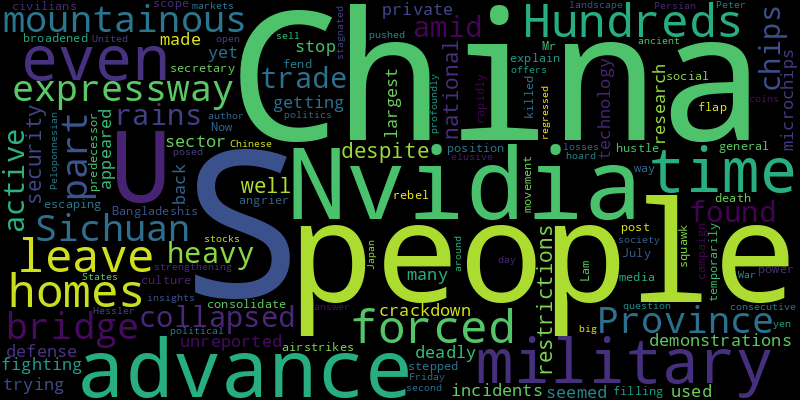
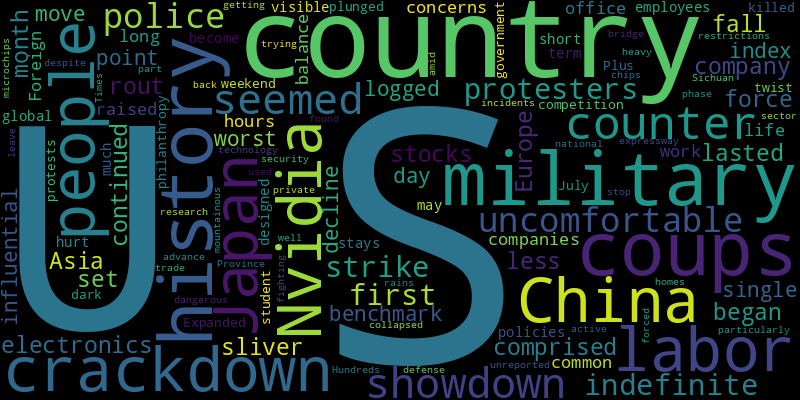
chore(bot): 👻 auto commit

diff --git a/README.md b/README.md
@@ -2,41 +2,41 @@
 Auto RSS New York Times and Generate Word Cloud
 
 ## New York Times Global News
-* While the pursuit of love might seem secondary to dealing with the horrors and privations of the war, many Ukrainians say they need romantic relationships to help them cope.
+* The country’s army chief said an interim government would be formed. Dozens of protesters were killed on Sunday as they challenged Prime Minister Sheikh Hasina’s increasingly authoritarian rule.
+* The country begins a new week on edge after anti-immigrant riots, fanned by disinformation from the far right, broke out in cities across Britain.
+* Foreign employees have become much more visible in Japan. But policies designed only for short-term stays may hurt the country in the global competition for labor.
+* A couple planted as sleeper spies in Slovenia posed as an Argentine art dealer and an entrepreneur. They were caught in December 2022 and sent to Moscow in a sweeping prisoner exchange last week.
+* An icon of socialist modernist architecture in the capital of the former Soviet republic that is now Moldova has been at the center of a tussle between corrupt developers and preservationists.
+* After another dubious election victory, Venezuela’s president, Nicolás Maduro, appears firmly in power. The only real potential threat, history shows, may come if his own security forces betray him.
 * The assassinations of two Hamas leaders may be a short-term setback, analysts say, not enough to prevent the group from re-emerging intact — and possibly more radicalized.
+* While the pursuit of love might seem secondary to dealing with the horrors and privations of the war, many Ukrainians say they need romantic relationships to help them cope.
+* President Volodymyr Zelensky did not say whether the jets had already flown combat missions. A shortage of trained pilots and a limited number of jets will constrain their immediate impact.
 * Hundreds of people were forced to leave their homes in a mountainous part of Sichuan Province. An expressway bridge collapsed amid heavy rains.
-* The Sicilian capital, Palermo, has a long history of cultural melding. Its new arrivals from Sri Lanka have embraced St. Rosalia.
-* Far-right groups and anti-immigration protesters have taken to the streets after a mass stabbing in the town of Southport was followed by a wave of disinformation about the identity of the attacker.
-* The complex choreography caught some prisoners being freed in their robes and slippers, unaware of their fates, and required forensic experts to make positive identifications.
-* Israel conducted airstrikes on Hezbollah targets in Lebanon, and the Iran-backed group retaliated by launching dozens of rockets toward an Israeli village.
-* Ms. Harris went north as a 12-year-old when her mother was recruited to conduct breast-cancer research, but California was always on her mind. The experience of a Canadian friend inspired her to become a prosecutor.
-* Gunmen and a suicide bomber struck a seaside hotel in one of the deadliest such assaults in the country in months. The Islamist militant group Al Shabab claimed responsibility.
-* Israel’s assault has driven Hamas underground, but for nearly two million Gazans, what followed in its wake is a lawlessness that is undermining communal trust.
 
 ![Global](./global.png)
 ## New York Times United States News
-* Mayor London Breed has told city officials to issue citations and encourage homeless people to leave town by offering free bus tickets.
+* Much of the fire-ravaged community on the island of Maui has been cleared of debris. But for a town steeped in history, there are thorny questions about what the future should look like.
 * Prosecutors said the inmate, Paul J. DeCologero, acted as a lookout in 2018 during the fatal beating of the notorious Boston underworld figure.
 * Utah cannot enforce its near-total ban on abortion while a challenge to the law proceeds in the courts, the State Supreme Court ruled on Thursday.
 * Prosecutors said that Mathew Bowyer, a Southern California resident, was running an illegal sports gambling operation, and that one of his clients was the interpreter for the baseball star Shohei Ohtani.
-* A proposed “Muslim-friendly” community near Minneapolis was called segregationist. The backlash was called Islamophobic. Who gets to define inclusion?
-* At least three candidates — Senator Mark Kelly of Arizona, Gov. Tim Walz of Minnesota and Gov. Josh Shapiro of Pennsylvania — are scheduled to meet with Vice President Kamala Harris on Sunday.
-* At a rally in Atlanta, former President Donald J. Trump said the battleground state’s governor and its top election official wanted him “to lose” and falsely claimed that he’d won the state twice.
-* The relationship with a teacher at his children’s elementary school occurred when he was married to his first wife, years before he met Ms. Harris.
-* Vice President Kamala Harris has not strayed from President Biden on Israel policy, but she has taken a stronger tone on the suffering of Palestinians.
-* Christopher Rodriguez tried to detonate a bag of explosives at the embassy in Washington, D.C., by firing a rifle at it but missed, prosecutors said.
+* The ultraliberal congresswoman and member of the “squad” is facing a primary on Tuesday against Wesley Bell, a progressive prosecutor whose campaign has been financed by pro-Israel groups.
+* The vice president conducted interviews with potential candidates over the weekend and has fielded concerns from donors and activists over the choice.
+* The former president, whose 100th birthday is Oct. 1, seems to have found some new motivation in the 2024 election.
+* Many on the state’s northwestern coast felt they knew what to expect from Debby, which strengthened into a hurricane Sunday night, after a much stronger storm hit the area last year.
+* Children were inside the play structure at a baseball game when it was carried 15 to 20 feet in the air the by the wind. One child died and another was injured.
+* Mr. Kennedy, an independent presidential candidate, confessed to dropping off the bear cub 10 years ago and making it appear that a bike had hit the animal.
 
 ![US](./usnews.png)
 ## New York Times Asia News
+* The military has a history of coups and counter coups. But in this showdown, it has seemed uncomfortable with the police crackdown on protesters.
+* The indefinite strike, the first in the electronics company’s history, comprised only a sliver of its labor force and lasted less than a month.
+* A rout that began in Asia continued in Europe, and U.S. stocks are set to fall. Japan’s benchmark index logged its worst single-day point decline.
+* The move by some influential companies has raised concerns about work-life balance in a country where long hours at the office are common.
+* Foreign employees have become much more visible in Japan. But policies designed only for short-term stays may hurt the country in the global competition for labor.
+* Plus, philanthropy with a dark twist.
+* Expanded student protests this weekend, after more than 200 people were killed in a government crackdown in July, have plunged the country into a particularly dangerous phase.
 * Hundreds of people were forced to leave their homes in a mountainous part of Sichuan Province. An expressway bridge collapsed amid heavy rains.
 * The Times found an active trade in Nvidia chips in China despite U.S. national security restrictions, as well as unreported incidents of how the technology had been used to further defense research.
 * The U.S. is trying to stop China from getting Nvidia microchips to advance its military. The private sector is fighting back.
-* The demonstrations appeared to be the largest yet, as a deadly crackdown seemed to have made many Bangladeshis even angrier and broadened the movement’s scope.
-* The military has stepped up a campaign of airstrikes, and killed more civilians, to fend off rebel advances.
-* Mr. Lam had been filling the post of general secretary temporarily since the death of his predecessor in July. Now he is in position to consolidate power.
-* Some people in China flap and squawk on social media as way of escaping hustle culture. We can explain.
-* A rapidly strengthening yen and a sell-off in stocks in the United States pushed Japan’s markets to a second consecutive day of big losses on Friday.
-* An ancient hoard of Persian coins offers insights into the political landscape around the time of the Peloponnesian War.
-* The author Peter Hessler posed a question with an elusive answer: How could Chinese society open up so profoundly while its politics stagnated or even regressed?
 
 ![Asian](./asian.png)
